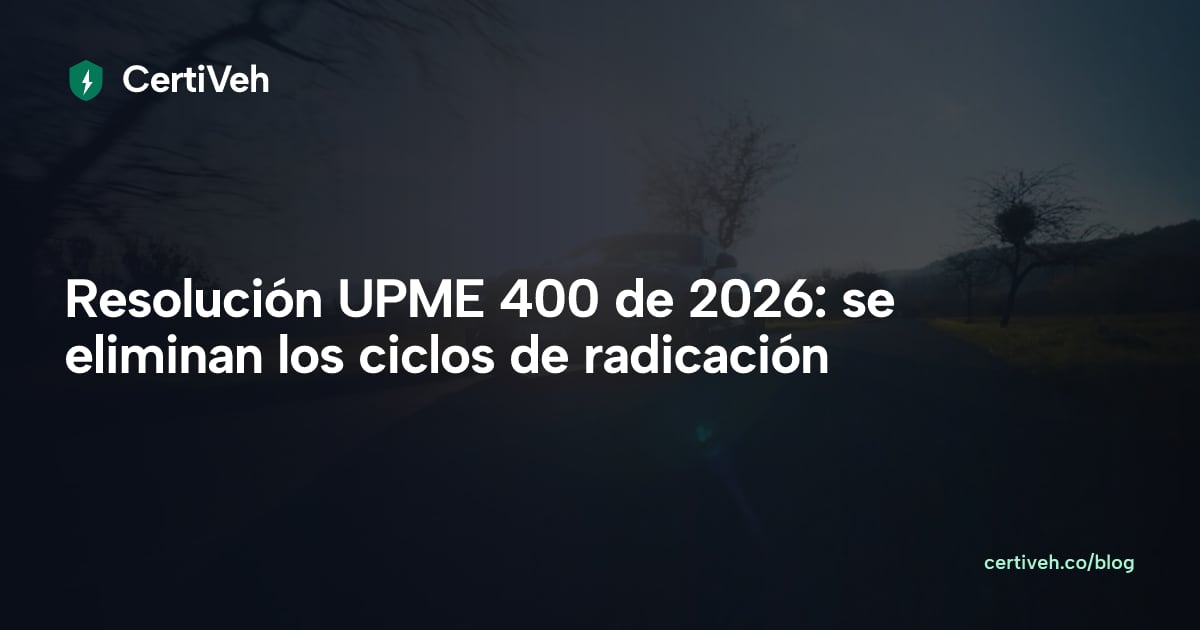
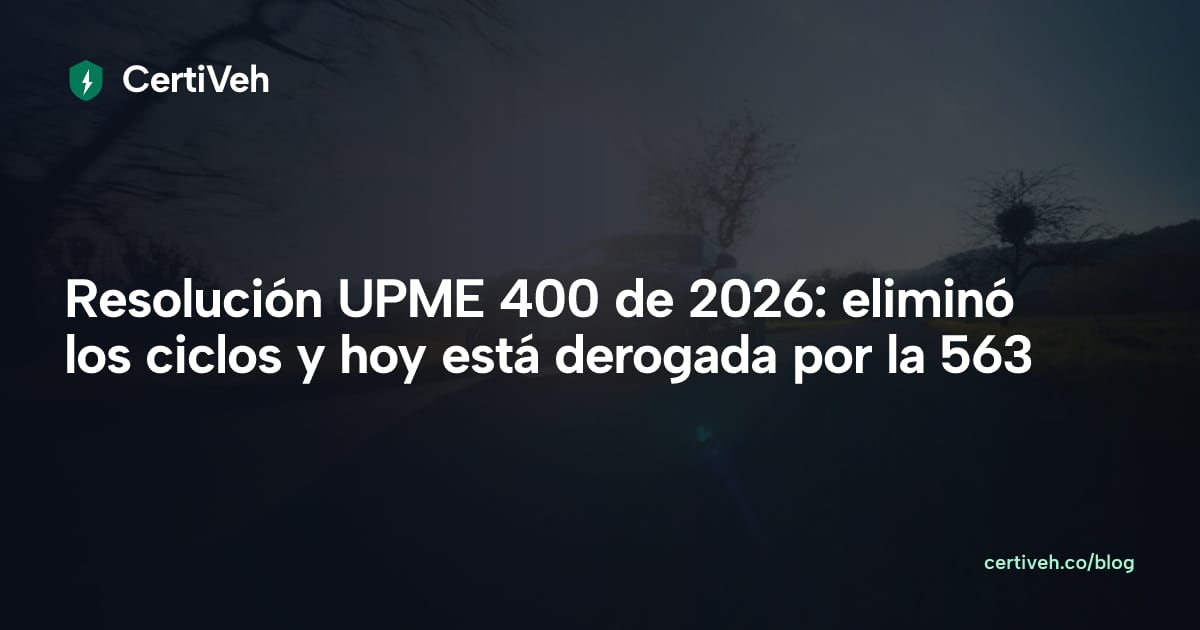
Landing: IVA de gas con el equipo, Resolución 563 vigente, quién hace qué ante la DIAN y sin sponsor
- otros-activos y EmpresasLanding: el IVA de los vehículos a gas también lo armamos (tasa 19%), se coordina
  con el equipo en contacto@certiveh.co; la vigencia y la modificación del certificado según la Res. 563
  (art. 9 y 7), no la 135.
- Blog de la Res. 400: título, H1, tabla, índice, metadatos y OG dicen que está derogada y que la ventana
  la fija hoy la Res. UPME 563 de 2026 (numeral 6.1). Mismo slug.
- Elegibles 2026: la lista es el Anexo 2 de la 563, no las Res. 135 y 736.
- Ley de Rescate: estado del PL 477/2026 Cámara al 25-nov (sin ponencia ni votos; ficha oficial de la Cámara).
- Cinco CTA del blog: ante la UPME radicamos; ante la DIAN armamos el expediente y pedimos la cita si la
  seccional la exige; el cliente firma y envía el correo desde su RUT. Fuera el «en la práctica» sin fuente.
- JSON-LD de la home: los aliados no son patrocinadores, fuera `sponsor`.

Changed region(s): [[0.0308, 0.4222, 0.8633, 0.6032]]

diff --git a/src/app/components/EmpresasLanding.tsx b/src/app/components/EmpresasLanding.tsx
@@ -591,7 +591,7 @@ function PorQueCertificado() {
         <ul className="oa-why-list">
             {[
               { title: "Documento oficial", desc: "Acredita que tu inversión es elegible para los cuatro incentivos tributarios de la Ley 1715/2014 (mod. Ley 2099/2021)." },
-              { title: "Sin límite de vigencia", desc: "Los certificados bajo la Resolución UPME 135 de 2025 no vencen. Pueden modificarse hasta 2 años después de su expedición." },
+              { title: "Sin límite de vigencia", desc: "Los certificados de la UPME no vencen (Res. UPME 563/2026, art. 9). Pueden modificarse hasta 2 años después de su ejecutoria, salvo los de vehículos eléctricos e híbridos." },
               { title: "Para cualquier contribuyente", desc: "Puede solicitarlo cualquier persona natural o jurídica que realice la inversión, incluyendo inversiones vía leasing financiero." },
               { title: "Ventana continua", desc: "La UPME recibe solicitudes de forma continua del 1 de febrero al 15 de diciembre de cada año (Res. UPME 563/2026)." },
             ].map((item, i) => (
@@ -613,10 +613,10 @@ function FAQ() {
     { q: "¿Qué es el certificado UPME y para qué sirve?", a: "Es el documento oficial que acredita que una inversión en eficiencia energética (GEE) o energías renovables (FNCE) es elegible para los incentivos de la Ley 1715 de 2014. Es el único soporte requerido para acceder a los cuatro beneficios tributarios: deducción en renta, exclusión de IVA, exención arancelaria y depreciación acelerada." },
     { q: "¿Quién puede solicitarlo?", a: "Cualquier persona natural o jurídica que realice la inversión. Esto incluye empresas, inversionistas, operadores de flotas, desarrolladores de proyectos solares y propietarios de infraestructura de carga, entre otros." },
     { q: "¿Cuánto se demora el proceso?", a: "La Resolución 563 de 2026 unificó los plazos: la UPME tiene hasta 30 días hábiles para resolver de fondo, tanto los proyectos FNCE (como energía solar) como los GEE (como cargadores o vehículos GNV). Ya no hay etapa de completitud aparte. Si la UPME hace un requerimiento, el plazo se suspende hasta que se responde, y al reanudarse quedan hasta 10 días hábiles adicionales. CertiVeh gestiona todo el proceso y responde a los requerimientos de la UPME." },
-    { q: "¿El certificado vence?", a: "No. Los certificados emitidos bajo la Resolución UPME 135 de 2025 no tienen límite de vigencia. Pueden modificarse (por ejemplo, para incluir información arancelaria o adicionar solicitantes) dentro de los 2 años siguientes a su expedición." },
+    { q: "¿El certificado vence?", a: "No. Según la Resolución UPME 563 de 2026 (artículo 9), los certificados de la UPME no tienen fecha de vencimiento, incluidos los expedidos bajo las Resoluciones 319 de 2022 y 135 de 2025. Pueden modificarse (por ejemplo, para cambiar o incluir la subpartida arancelaria, o los roles de importador, proveedor o financiador) dentro de los 2 años siguientes a su ejecutoria (artículo 7). El certificado de un vehículo eléctrico o híbrido no se modifica: se presenta una solicitud nueva." },
     { q: "¿Aplica si la inversión se hizo con leasing?", a: "Sí. El Decreto 895 de 2022 contempla expresamente las inversiones realizadas mediante leasing financiero (art. 1.2.1.18.72). Esto es especialmente relevante para flotas de vehículos y equipos de alto valor." },
     { q: "¿Puedo combinar la deducción de renta con la depreciación acelerada?", a: "Sí. La norma establece que tomar ambos beneficios no se considera concurrencia de beneficios (Decreto 895 de 2022). Cada caso debe validarse con asesoría tributaria." },
-    { q: "¿Qué pasa con el IVA que ya pagué?", a: "Con el certificado UPME puede solicitarse la devolución del IVA ante la DIAN, presentándolo como soporte. Ese trámite lo adelanta el contribuyente: el servicio de gestión del IVA de CertiVeh aplica solo a vehículos eléctricos e híbridos." },
+    { q: "¿Qué pasa con el IVA que ya pagué?", a: "Con el certificado UPME puede pedirse la devolución del IVA ante la DIAN, con el certificado como soporte. En los vehículos a gas natural (GNV), como camiones, CertiVeh también arma el expediente para pedirla; en ellos la tasa del IVA es del 19%. Ese servicio no se contrata en el portal: se coordina con el equipo en contacto@certiveh.co. En cargadores, energía solar y otros proyectos, el trámite del IVA lo adelanta el contribuyente. En todos los casos, la solicitud a la DIAN la envía el contribuyente desde el correo inscrito en su RUT." },
   ];
   return (
     <section id="faq" aria-label="Preguntas frecuentes" className="oa-sec">
